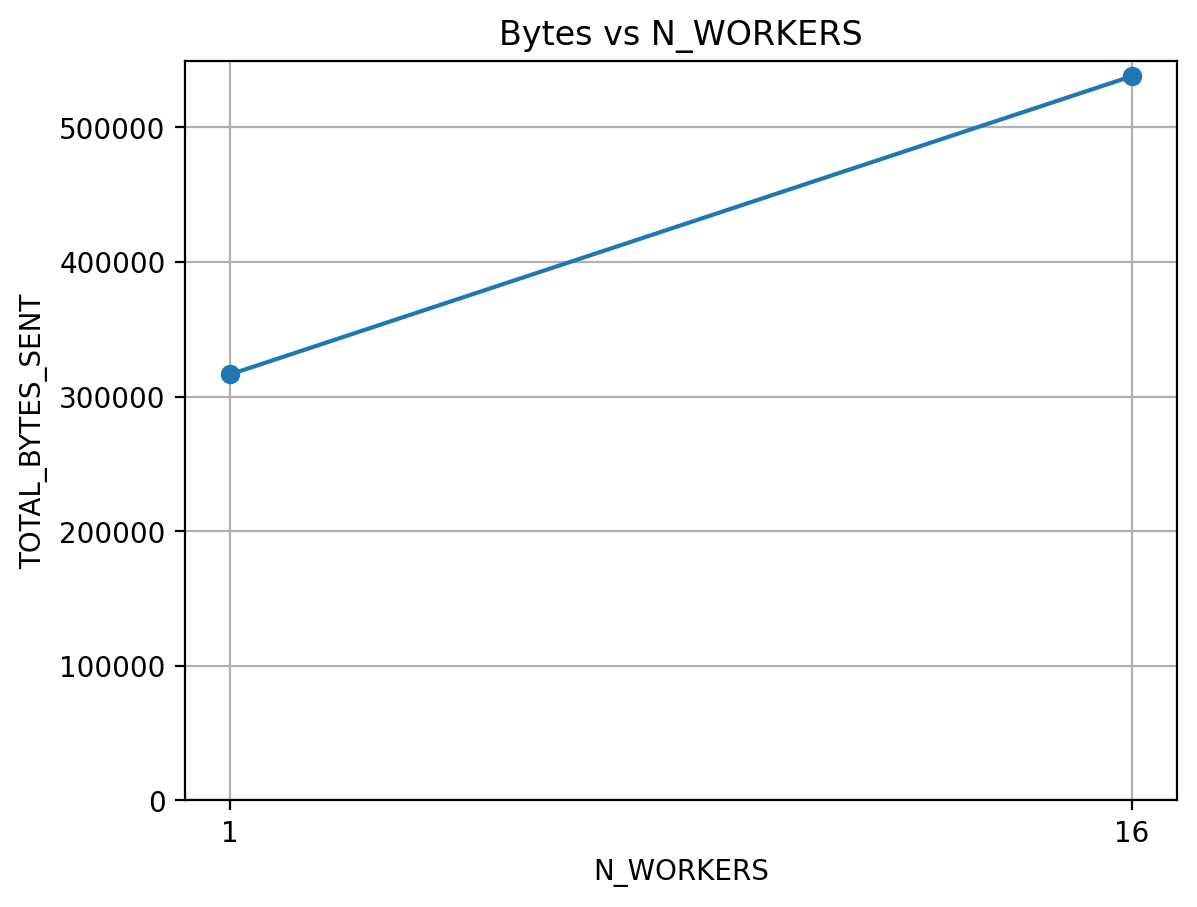
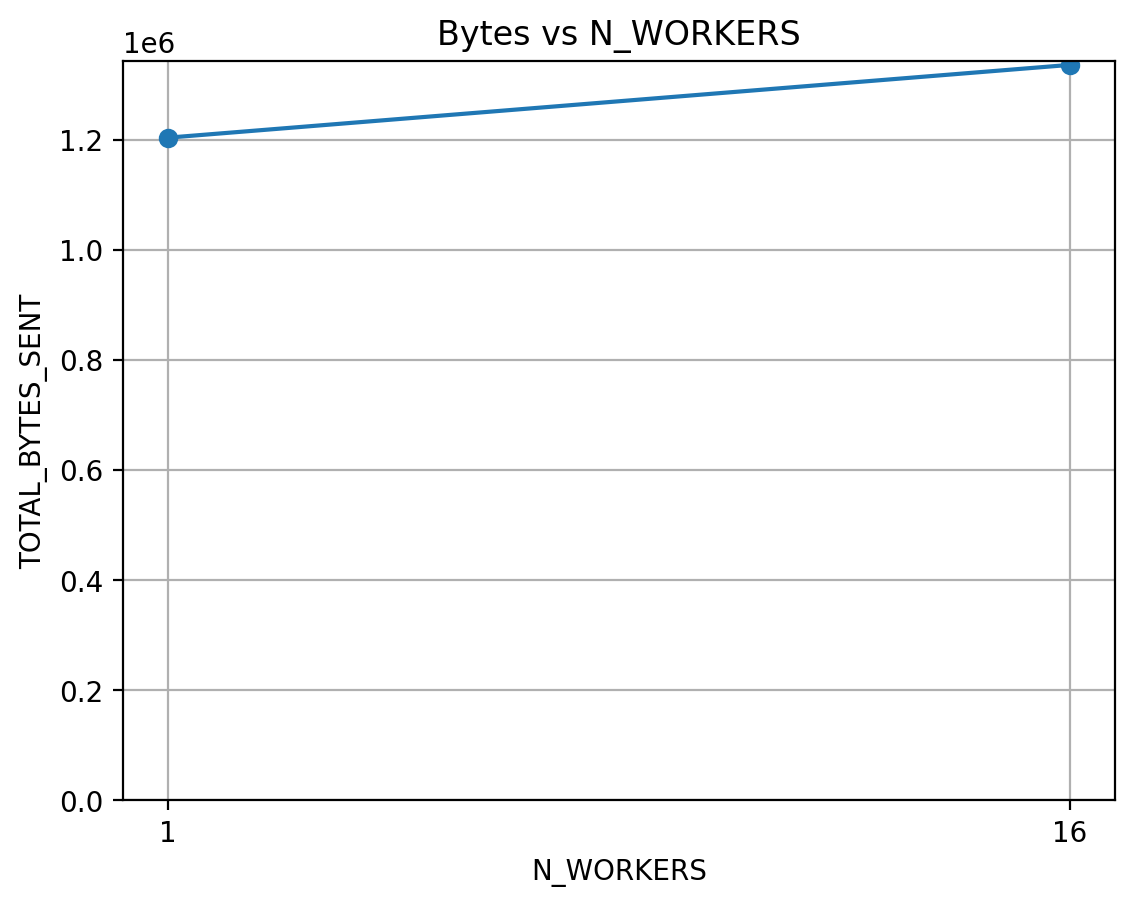
fe

diff --git a/java/src/main/java/dl4j_models/Dl4jModelFactory.java b/java/src/main/java/dl4j_models/Dl4jModelFactory.java
@@ -53,8 +53,10 @@ public class Dl4jModelFactory {
 		Pair<PsoModel, Integer> pair = null;
 
 		if("iris".equals(DATASET)) {
-			// model = createIrisModel(workerId);
-			model = createDenseModel_1(workerId);
+			model = createIrisModel(workerId);
+			// model = createDenseModel_1(workerId);
+			model = createDenseModel_2(workerId);
+			// model = createDenseModel_3(workerId);
 
 		} else if ("wine".equals(DATASET)) {
 			model = createWineModel(workerId);
@@ -86,15 +88,16 @@ public class Dl4jModelFactory {
 
 		} else if (DATASET.contains("pendigits")) {
 			// model = createPendigitsModelTanh(workerId);
-			// model = createPendigitsModelSmaller(workerId);
-			// model = createPendigitsModelSmaller_2(workerId);
 			model = createDenseModel_1(workerId);	// forward pass cost: CPU = 10ms / GPU = 3ms
+			// model = createDenseModel_2(workerId);
+			// model = createDenseModel_3(workerId);
 			// model = createDenseModel_4(workerId);
 
 		} else if ("winequality".equals(DATASET)) {
-			System.out.println("NEURAL_OUTPUT: " + NEURAL_OUTPUT);
 			// model = createWineQualityModel(workerId);
-			model = createDenseModel_1(workerId);
+			// model = createDenseModel_1(workerId);
+			// model = createDenseModel_2(workerId);
+			model = createDenseModel_3(workerId);
 
 		} else if ("letter".equals(DATASET)) {
 			model = createLetterModel(workerId);
@@ -2696,30 +2699,38 @@ public class Dl4jModelFactory {
 
 	// ======================================================================================================================
 
-	public static PsoModel createPendigitsModelSmaller(int workerId) {
-		if (printModel) System.out.println("Using PenDigits PSO-friendly Model (TANH)");
+	public static PsoModel createDenseModel_3(int workerId) {
+
+		if (printModel) System.out.println("Using createDenseModel_3");
+		Activation act = Activation.SOFTMAX;
+		LossFunctions.LossFunction loss; 
+
+		if (NEURAL_OUTPUT == 1) {
+			act = Activation.SIGMOID;
+			loss = LossFunctions.LossFunction.XENT;   // binary cross-entropy
+		} else {
+			act = Activation.SOFTMAX;
+			loss = LossFunctions.LossFunction.MCXENT; // multi-class cross-entropy
+		}
 
 		MultiLayerConfiguration conf = new NeuralNetConfiguration.Builder()
 				.seed(123 + workerId)
 				.weightInit(WeightInit.XAVIER)
 				.list()
-				// 16 -> 64
 				.layer(new DenseLayer.Builder()
 						.nIn(NUM_FEATURES)     // 16
 						.nOut(64)
 						.activation(Activation.TANH)
 						.build())
-				// 64 -> 64
 				.layer(new DenseLayer.Builder()
 						.nIn(64)
 						.nOut(64)
 						.activation(Activation.TANH)
 						.build())
-				// 64 -> 10
-				.layer(new OutputLayer.Builder(LossFunctions.LossFunction.MCXENT)
+				.layer(new OutputLayer.Builder(loss)
 						.nIn(64)
 						.nOut(NEURAL_OUTPUT)   // 10
-						.activation(Activation.SOFTMAX)
+						.activation(act)
 						.build())
 				.build();
 
@@ -2730,9 +2741,19 @@ public class Dl4jModelFactory {
 
 	// ======================================================================================================================
 
-	public static PsoModel createPendigitsModelSmaller_2(int workerId) {	// single hidden layer
-		if (printModel) System.out.println("Using PenDigits PSO-friendly Model (TANH, small)");
+	public static PsoModel createDenseModel_2(int workerId) {	// single hidden layer
+		if (printModel) System.out.println("Using createDenseModel_2");
 
+		Activation act = Activation.SOFTMAX;
+		LossFunctions.LossFunction loss; 
+
+		if (NEURAL_OUTPUT == 1) {
+			act = Activation.SIGMOID;
+			loss = LossFunctions.LossFunction.XENT;   // binary cross-entropy
+		} else {
+			act = Activation.SOFTMAX;
+			loss = LossFunctions.LossFunction.MCXENT; // multi-class cross-entropy
+		}
 		MultiLayerConfiguration conf = new NeuralNetConfiguration.Builder()
 				.seed(123 + workerId)
 				.weightInit(WeightInit.XAVIER)
@@ -2742,10 +2763,10 @@ public class Dl4jModelFactory {
 						.nOut(32)
 						.activation(Activation.TANH)
 						.build())
-				.layer(new OutputLayer.Builder(LossFunctions.LossFunction.MCXENT)
+				.layer(new OutputLayer.Builder(loss)
 						.nIn(32)
 						.nOut(NEURAL_OUTPUT)
-						.activation(Activation.SOFTMAX)
+						.activation(act)
 						.build())
 				.build();
 

diff --git a/java/src/main/java/pso/Simulation.java b/java/src/main/java/pso/Simulation.java
@@ -51,14 +51,14 @@ public class Simulation {
         // =================================================================================================
         // Restart the Kafka Parititions
         
-        List<String> topics;
-        if (cfg.FULLY_INFORMED || cfg.ENABLE_NEIGHBORHOODS) {
-            topics = List.of(cfg.PBEST_WEIGHTS_TOPIC, cfg.LOCAL_WEIGHTS_TOPIC);
-        } else {
-            topics = List.of(cfg.GPEST_WEIGHTS_TOPIC, cfg.LOCAL_WEIGHTS_TOPIC);
-        }
+        // List<String> topics;
+        // if (cfg.FULLY_INFORMED || cfg.ENABLE_NEIGHBORHOODS) {
+        //     topics = List.of(cfg.PBEST_WEIGHTS_TOPIC, cfg.LOCAL_WEIGHTS_TOPIC);
+        // } else {
+        //     topics = List.of(cfg.GPEST_WEIGHTS_TOPIC, cfg.LOCAL_WEIGHTS_TOPIC);
+        // }
 
-        KafkaTopicManager.recreateTopics(bootstrap, topics, 1, 1);
+        // KafkaTopicManager.recreateTopics(bootstrap, topics, 1, 1);
 
         // =================================================================================================
 
@@ -114,17 +114,17 @@ public class Simulation {
         // Thread.sleep(100000000);     // 1277 MiB are loaded into VRAM before the workers even start. This is so all the CUDA/cuDNN code can be brought to memory
                                         // 1GB of allocations for Buffers
                                         
-        for (int i = 0; i < numWorkers; i++) {
-            Worker worker = new Worker(i, null);
-            Thread workerThread = new Thread(worker, "worker-thread-" + i);
-            workerThread.start();
-            workerThreads.add(workerThread);
-            System.out.println("Started worker thread " + i);
-        }
+        // for (int i = 0; i < numWorkers; i++) {
+        //     Worker worker = new Worker(i, null);
+        //     Thread workerThread = new Thread(worker, "worker-thread-" + i);
+        //     workerThread.start();
+        //     workerThreads.add(workerThread);
+        //     System.out.println("Started worker thread " + i);
+        // }
 
-        for (Thread t : workerThreads) {
-            t.join();
-        }
+        // for (Thread t : workerThreads) {
+        //     t.join();
+        // }
 
         double elapsedTimeSec = (System.nanoTime() - startNs) / 1_000_000_000.0; // 10^9, so this is converting to seconds    
         System.out.printf("============= Training is over, ElapsedTime: %.3f seconds =============%n", elapsedTimeSec);

diff --git a/python/gradient_descent.py b/python/gradient_descent.py
@@ -15,6 +15,7 @@ from sklearn.preprocessing import StandardScaler
 from typing import Tuple, Optional
 from sklearn.datasets import load_iris as sk_load_iris
 from sklearn.preprocessing import LabelEncoder
+import time
 
 from dotenv import load_dotenv
 env_path = os.path.join("..", "java", ".env")
@@ -1721,6 +1722,8 @@ def run_wine_type():
     model = build_winequality_model(input_dim=X_train.shape[1])
 
     print("\nTraining...")
+    t0 = time.perf_counter()
+
     model.fit(
         X_train, y_train,
         validation_split=0.2,
@@ -1732,7 +1735,8 @@ def run_wine_type():
             keras.callbacks.EarlyStopping(monitor="val_accuracy", patience=3, restore_best_weights=True),
         ]
     )
-
+    t1 = time.perf_counter()
+    print(f"fit() took {t1 - t0:.3f} seconds")
     print("\nEvaluating on test set...")
     test_loss, test_acc = model.evaluate(X_test, y_test, verbose=0)
     print(f"Test loss: {test_loss:.4f}")

diff --git a/java/src/main/java/pso/Worker.java b/java/src/main/java/pso/Worker.java
@@ -106,6 +106,8 @@ public class Worker implements Runnable {
     // ==========================================================================================
 
     private void runInternal() throws Exception {
+        
+        t_actually_started.set(System.nanoTime());
 
         this.ws = new WorkerStatic(workerId);
         System.out.println("[Worker " + workerId + "] with RUN_ID = " + RUN_ID + ", Thread: " + Thread.currentThread().getName());

diff --git a/python/data_producer.py b/python/data_producer.py
@@ -37,7 +37,7 @@ NUMBER_OF_DATA_REPEATS_TEST = 1
 # ==============================================================================================
 
 if(DATASET == "iris" or DATASET == "wine"):     # 150 samples
-    NUMBER_OF_DATA_REPEATS = 37 * 3
+    NUMBER_OF_DATA_REPEATS = 37 * 10
     NUMBER_OF_DATA_REPEATS_TEST = 3
 
 if(DATASET == "winequality"):

diff --git a/java/src/main/java/pso/CoordinatorProcessor.java b/java/src/main/java/pso/CoordinatorProcessor.java
@@ -190,7 +190,7 @@ public class CoordinatorProcessor implements Processor<String, WeightsMessage, S
 
     @Override
     public void process(Record<String, WeightsMessage> record) {
-
+        System.out.println("AAAAAAAAAAAAAAAAAAAAAAAAA");
         if (control.isStopRequested(-1)) {
             // onAllWorkersReported();
             return;
